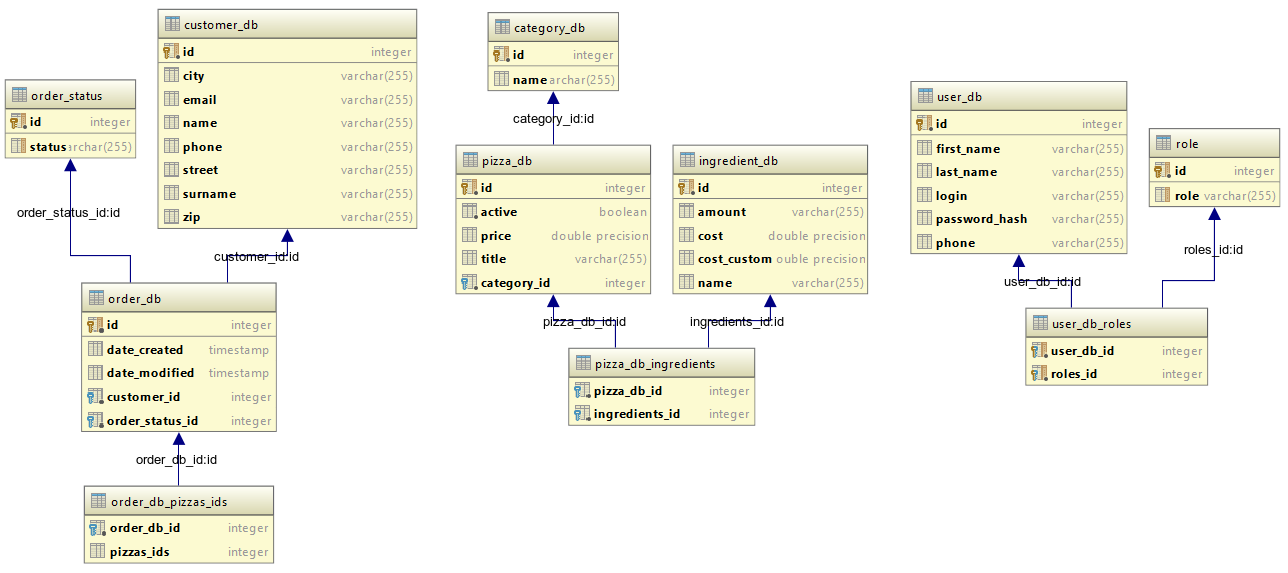
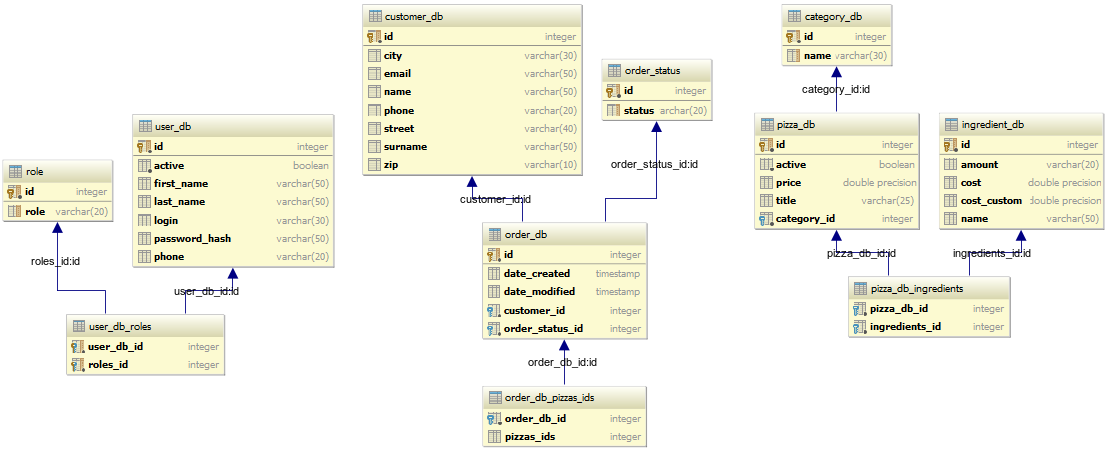
Limit VARCHAR lengths

diff --git a/source/backend/src/main/java/cz/osu/pizzakaktus/repositories/models/CustomerDb.java b/source/backend/src/main/java/cz/osu/pizzakaktus/repositories/models/CustomerDb.java
@@ -5,10 +5,7 @@ import lombok.Getter;
 import lombok.NoArgsConstructor;
 import lombok.Setter;
 
-import javax.persistence.Entity;
-import javax.persistence.GeneratedValue;
-import javax.persistence.GenerationType;
-import javax.persistence.Id;
+import javax.persistence.*;
 
 /**
  * Created by e-myslivost on 6.12.2016.
@@ -21,12 +18,19 @@ public class CustomerDb
     @Id
     @GeneratedValue(strategy = GenerationType.AUTO)
     private Integer id;
+    @Column(length = 50)
     private String name;
+    @Column(length = 50)
     private String surname;
+    @Column(length = 50)
     private String email;
+    @Column(length = 20)
     private String phone;
+    @Column(length = 30)
     private String city;
+    @Column(length = 40)
     private String street;
+    @Column(length = 10)
     private String zip;
 
     public CustomerDb(String name, String surname, String email, String phone, String city, String street, String zip) {

diff --git a/source/backend/src/main/java/cz/osu/pizzakaktus/repositories/models/UserDb.java b/source/backend/src/main/java/cz/osu/pizzakaktus/repositories/models/UserDb.java
@@ -23,13 +23,17 @@ public class UserDb {
     @Id
     @GeneratedValue(strategy = GenerationType.AUTO)
     private Integer id;
+    @Column(length = 50)
     private String firstName;
+    @Column(length = 50)
     private String lastName;
-    @Column(updatable = false)
+    @Column(updatable = false, length = 50)
     private String passwordHash;
+    @Column(length = 30)
     private String login;
     @ManyToMany(cascade = {CascadeType.MERGE})
     private Set<Role> roles;
+    @Column(length = 20)
     private String phone;
     private boolean active ;
 

diff --git a/source/backend/src/main/java/cz/osu/pizzakaktus/repositories/models/IngredientDb.java b/source/backend/src/main/java/cz/osu/pizzakaktus/repositories/models/IngredientDb.java
@@ -17,7 +17,9 @@ public class IngredientDb {
     @Id
     @GeneratedValue(strategy = GenerationType.AUTO)
     private Integer id;
+    @Column(length = 50)
     private String name;
+    @Column(length = 20)
     private String amount;
     private Double cost;
     private Double costCustom;

diff --git a/source/backend/src/main/java/cz/osu/pizzakaktus/repositories/models/PizzaDb.java b/source/backend/src/main/java/cz/osu/pizzakaktus/repositories/models/PizzaDb.java
@@ -17,6 +17,7 @@ public class PizzaDb {
     @Id
     @GeneratedValue(strategy = GenerationType.AUTO)
     private Integer id;
+    @Column(length = 25)
     private String title;
     @ManyToOne(optional = false, fetch = FetchType.LAZY)
     private CategoryDb category;

diff --git a/source/backend/src/main/java/cz/osu/pizzakaktus/repositories/models/OrderStatus.java b/source/backend/src/main/java/cz/osu/pizzakaktus/repositories/models/OrderStatus.java
@@ -20,7 +20,7 @@ public class OrderStatus {
     @Id
     @GeneratedValue(strategy = GenerationType.AUTO)
     private Integer id;
-    @Column(unique = true)
+    @Column(unique = true, length = 20)
     private String status;
 
     public OrderStatus() {

diff --git a/source/backend/src/main/java/cz/osu/pizzakaktus/repositories/models/CategoryDb.java b/source/backend/src/main/java/cz/osu/pizzakaktus/repositories/models/CategoryDb.java
@@ -15,6 +15,7 @@ public class CategoryDb {
     @Id
     @GeneratedValue(strategy = GenerationType.AUTO)
     private Integer id;
+    @Column(unique = true, length = 30)
     private String name;
 
     public CategoryDb(String name) {

diff --git a/source/backend/src/main/java/cz/osu/pizzakaktus/repositories/models/Role.java b/source/backend/src/main/java/cz/osu/pizzakaktus/repositories/models/Role.java
@@ -19,7 +19,7 @@ public class Role {
     @Id
     @GeneratedValue(strategy = GenerationType.AUTO)
     private Integer id;
-    @Column(unique = true)
+    @Column(unique = true, length = 20)
     private String role;
 
 }
